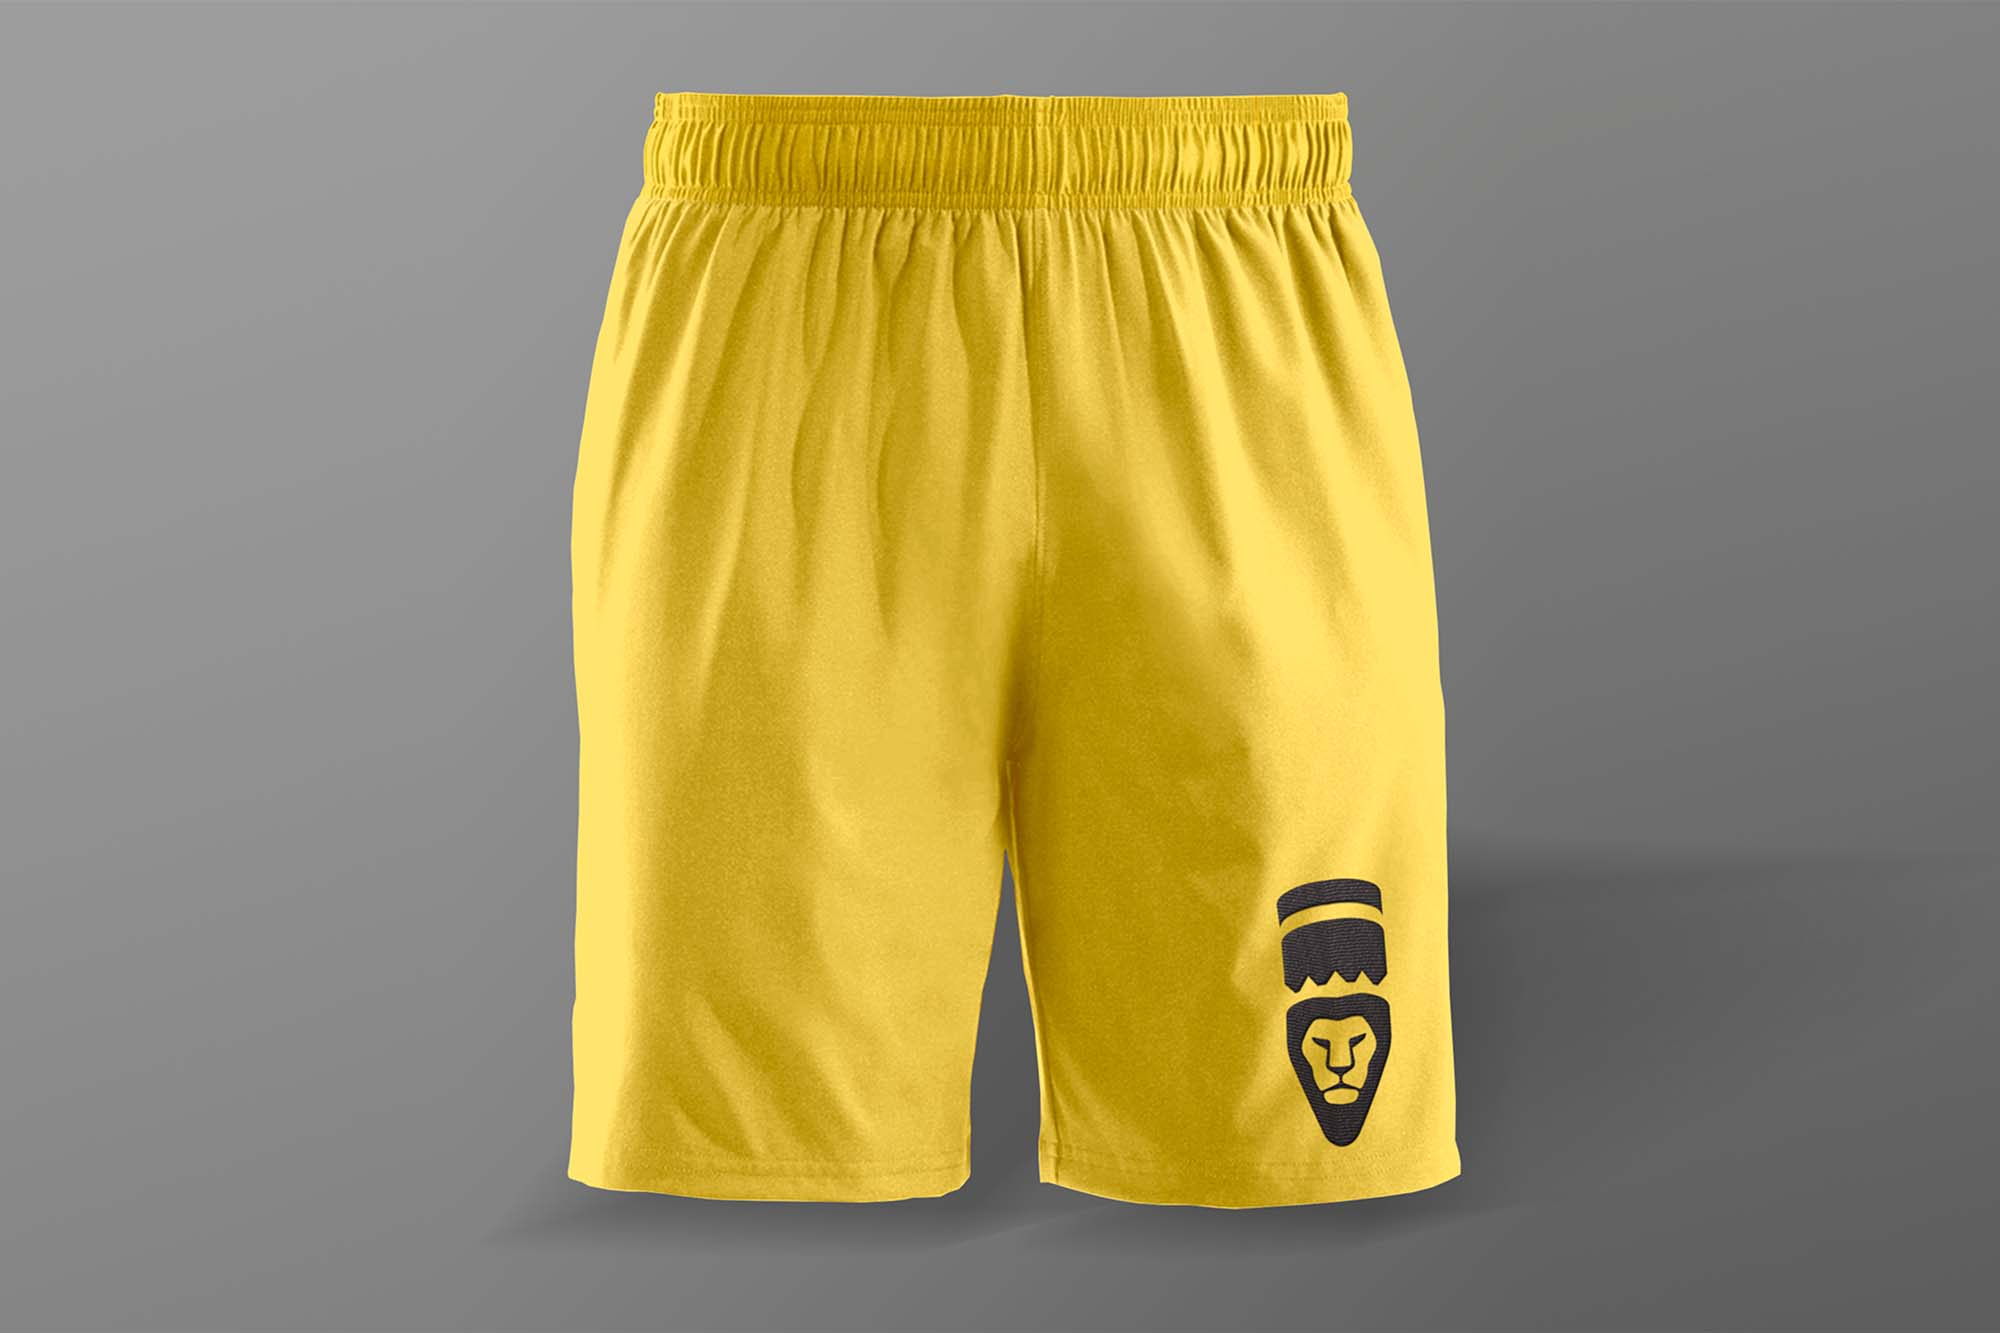
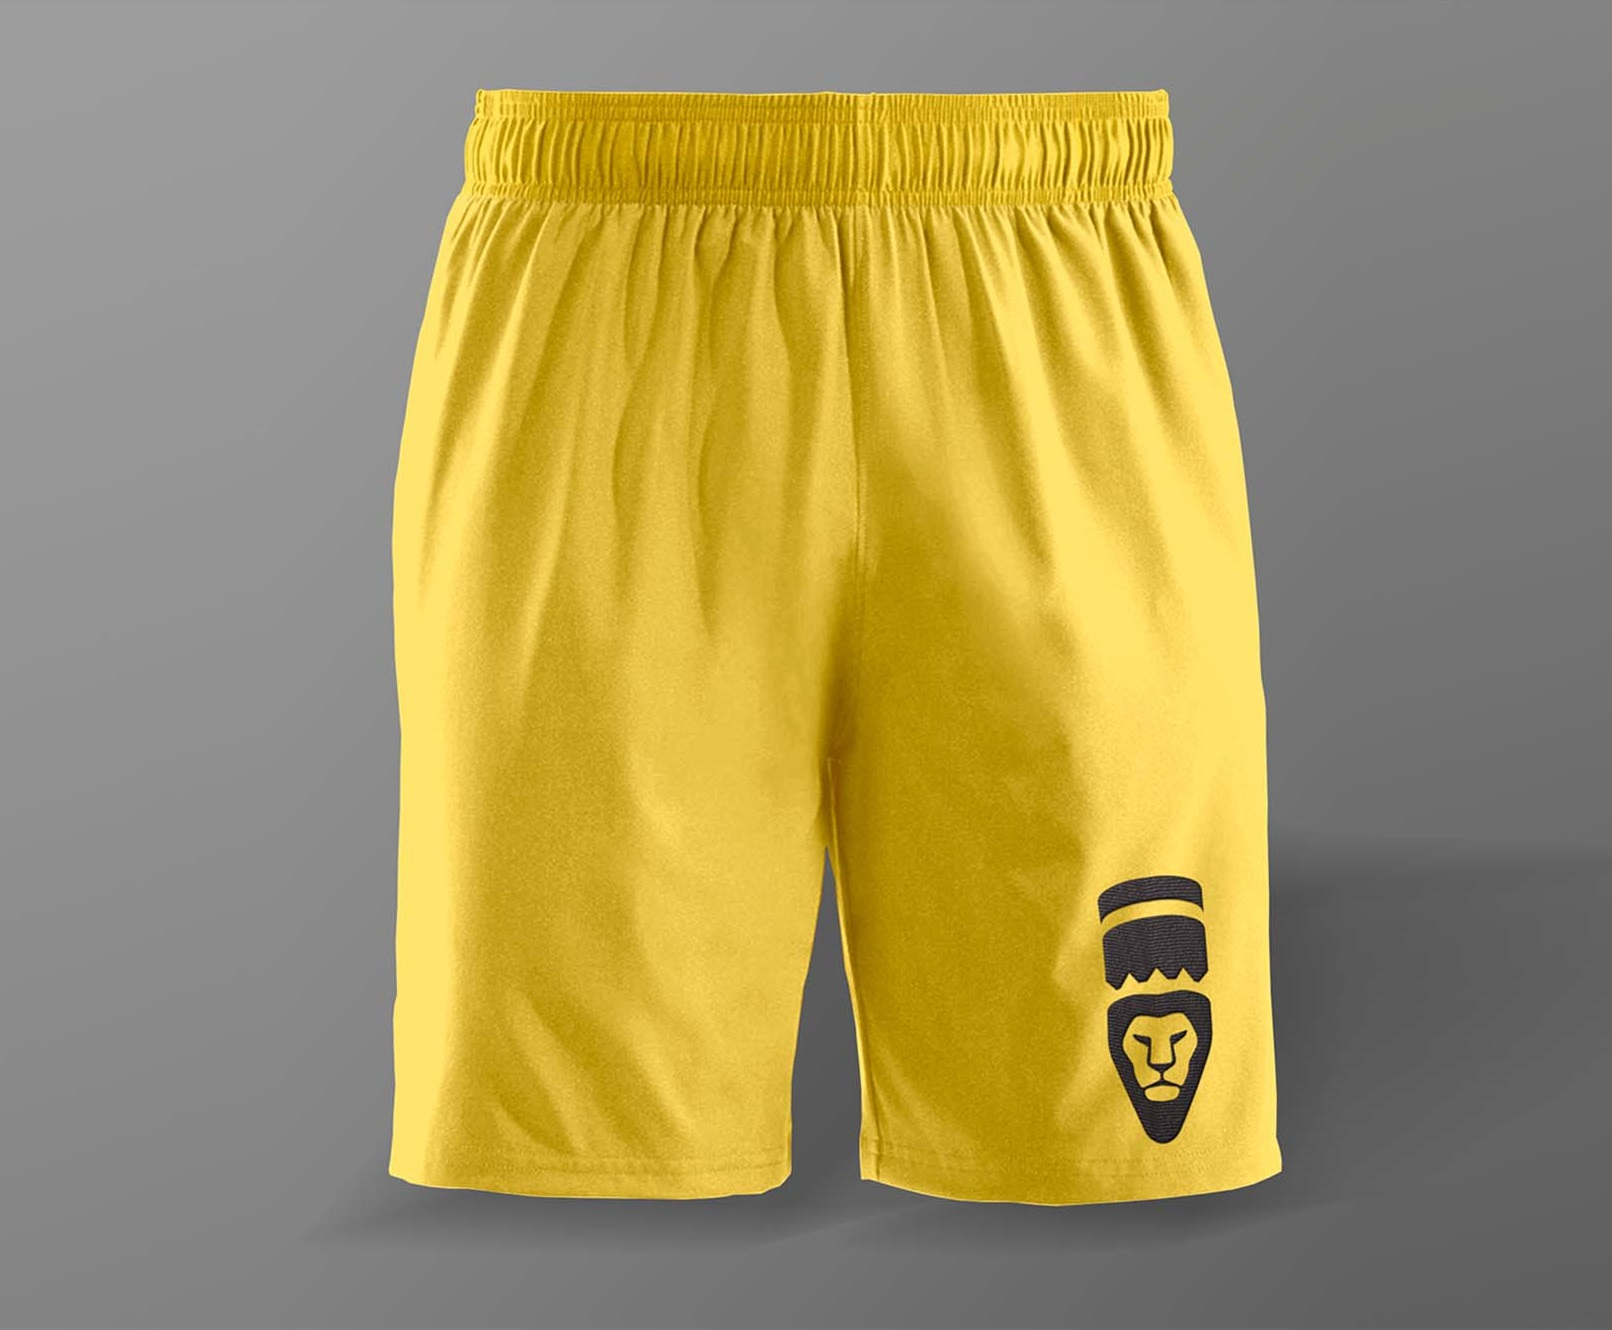
Alterações

Changed region(s): [[0.2171, 0.0617, 0.8065, 0.9248], [0.4342, 0.4316, 0.4653, 0.4624], [0.4032, 0.709, 0.4342, 0.7398]]

diff --git a/public/css/styles.css b/public/css/styles.css
@@ -113,7 +113,7 @@ header{
 }
 
 #products-container img{
-    max-height: 320px;
+    height: 320px;
     border-top-left-radius: 10px;
     border-top-right-radius: 10px;
 }
